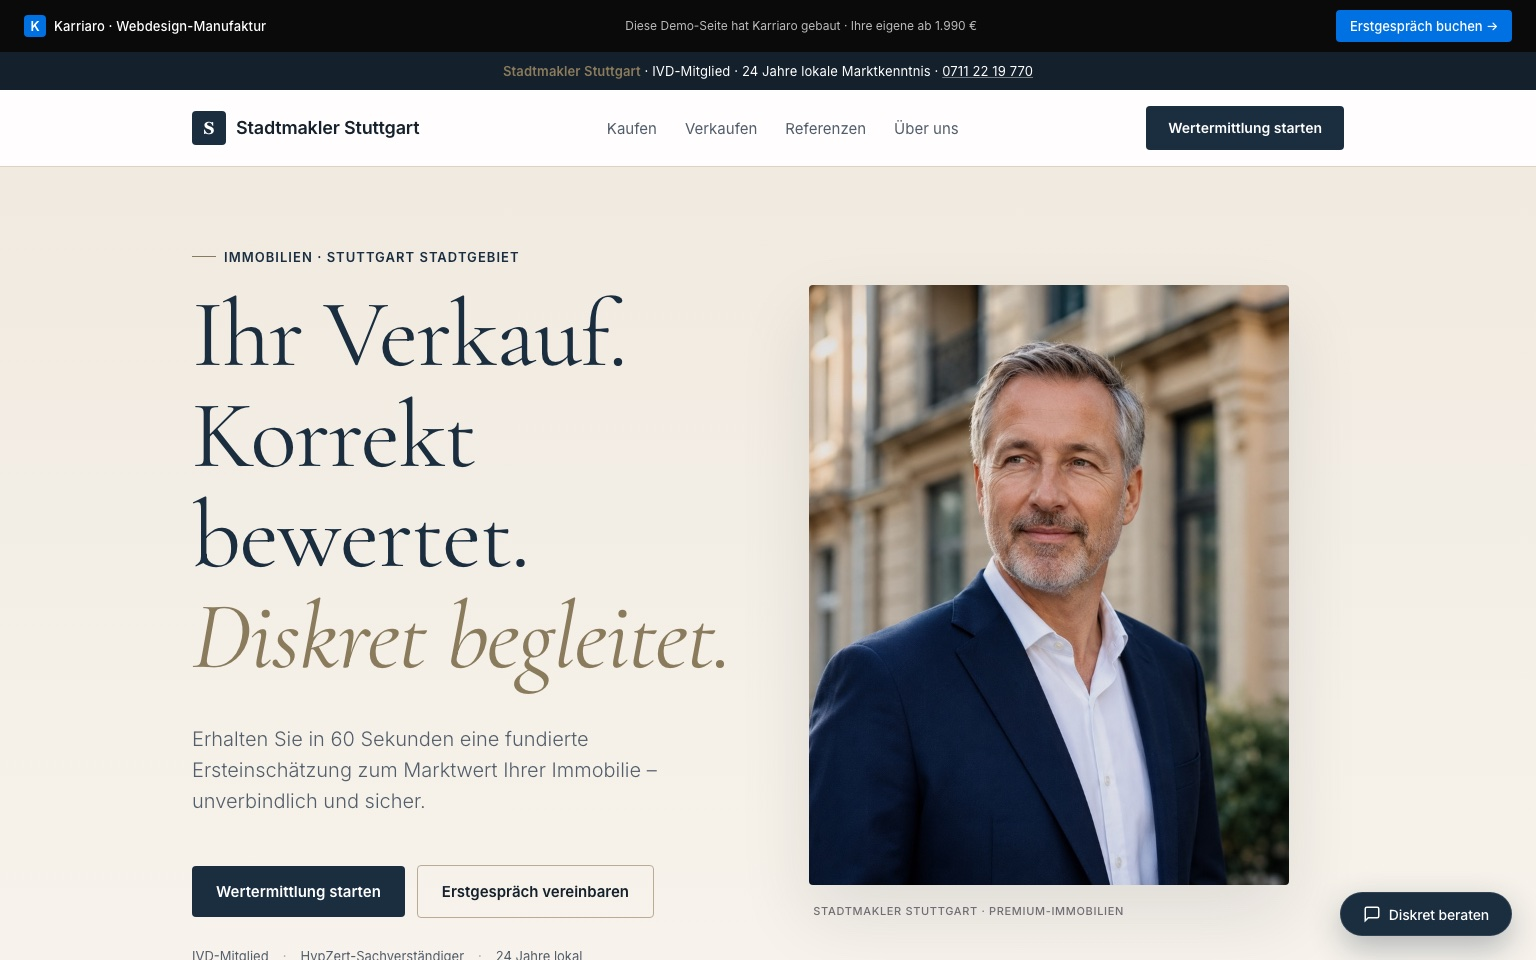
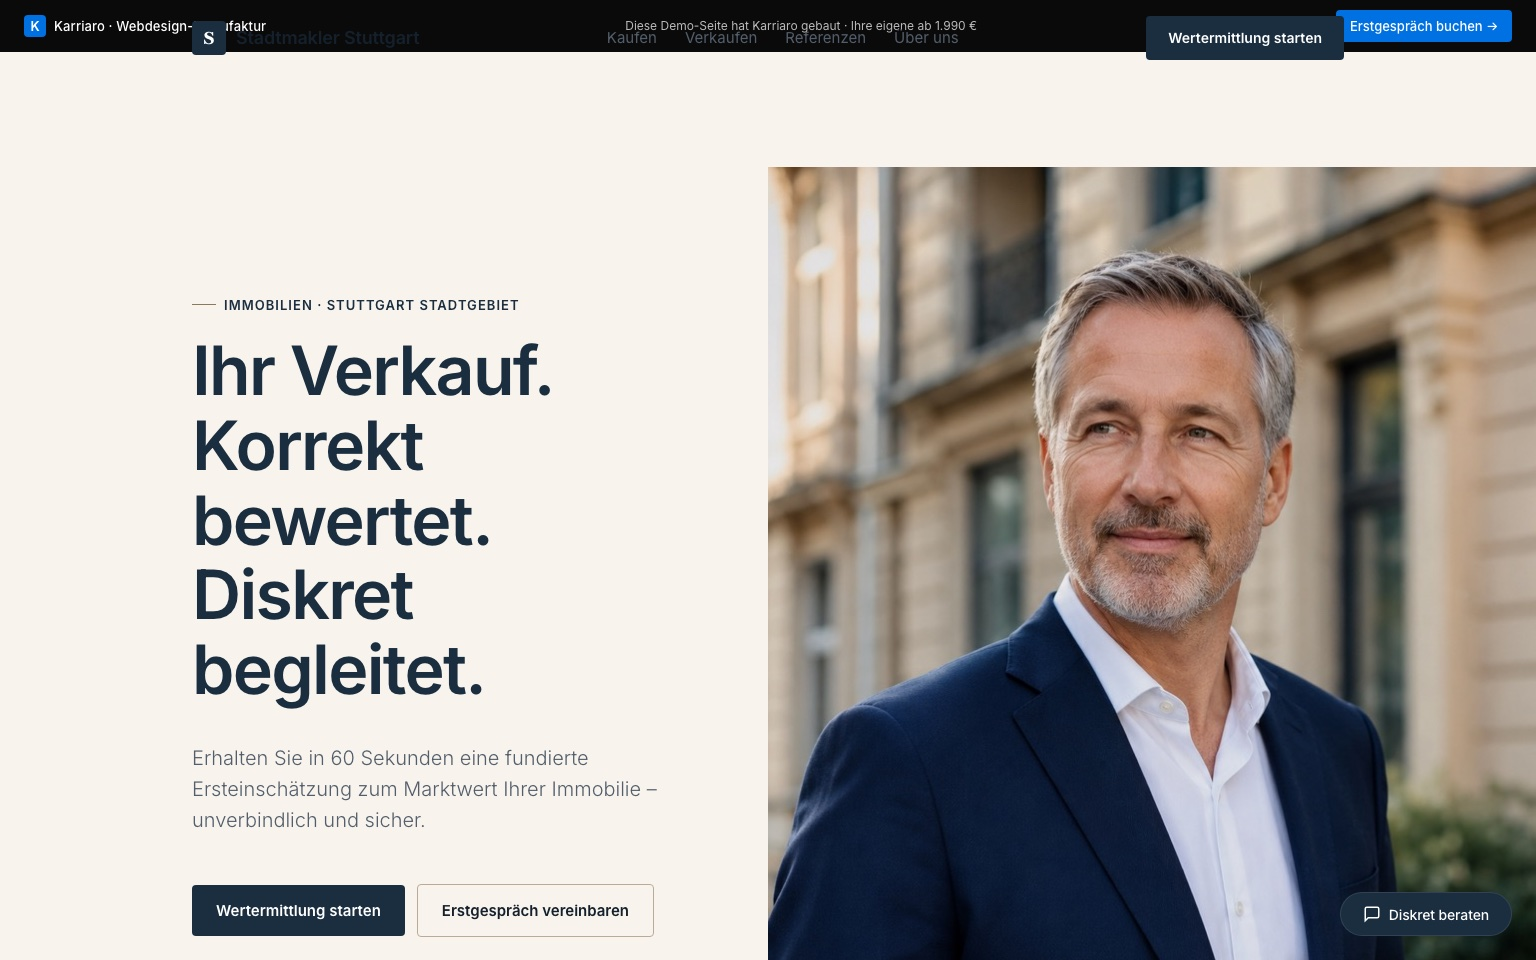
Sprint 24: Immobilien-Hero 1:1 wie User-Screenshot
- Topbar oben (Brand · IVD · 24 Jahre · Tel) entfernt
- Nav-Bar Apple-Style: transparent über Hero, beim Scroll > 20px solid weiss + blur via JS-toggle (.nav.is-scrolled)
- Hero komplett restrukturiert: full-width 2-Spalten-Grid (kein Container), linke Spalte mit asymmetrischem Padding bis Viewport-Mitte, rechte Spalte Foto full-bleed bis Browser-Rand
- H1 `<em>` raus: beide Zeilen "Ihr Verkauf. Korrekt bewertet. / Diskret begleitet." in identischer Sans-Serif Inter Bold 68px (statt Cormorant Serif italic)
- Mobile-Responsive: <920px wird Single-Column, Foto unter Content mit 4:3 Aspect

Nur Immobilien als Pixel-Pure-Showcase; andere 7 Sub-Pages behalten Sprint-22-Pattern.

diff --git a/src/portfolio/immobilien-makler.html b/src/portfolio/immobilien-makler.html
@@ -147,7 +147,8 @@
         .topbar { background: var(--text); color: #fff; font-size: 13px; padding: 9px 24px; text-align: center; letter-spacing: 0.01em; }
         .topbar strong { color: var(--gold); font-weight: 600; }
         .topbar a { color: #fff; text-decoration: underline; text-decoration-color: rgba(255,255,255,0.4); }
-        .nav { position: sticky; top: 0; z-index: 100; background: rgba(255,255,255,0.94); backdrop-filter: blur(14px); -webkit-backdrop-filter: blur(14px); border-bottom: 1px solid var(--border); }
+        .nav { position: fixed; top: 0; left: 0; right: 0; z-index: 100; background: transparent; border-bottom: 1px solid transparent; transition: background 0.3s, backdrop-filter 0.3s, border-color 0.3s; }
+        .nav.is-scrolled { background: rgba(255,255,255,0.92); backdrop-filter: blur(14px); -webkit-backdrop-filter: blur(14px); border-bottom-color: var(--border); }
         .nav-inner { max-width: var(--max); margin: 0 auto; padding: 0 24px; height: 76px; display: flex; align-items: center; justify-content: space-between; gap: 24px; }
         .brand { display: flex; align-items: center; gap: 10px; font-size: 18px; font-weight: 600; letter-spacing: -0.01em; }
         .brand-mark { display: inline-flex; align-items: center; justify-content: center; width: 34px; height: 34px; background: var(--accent); color: #fff; border-radius: 4px; font-weight: 700; font-size: 17px; font-family: 'Georgia', serif; }
@@ -159,11 +160,19 @@
         .mobile-toggle svg { width: 24px; height: 24px; }
         .mobile-menu { display: none; }
 
-        .hero { padding: 72px 0 96px; background: linear-gradient(180deg, var(--accent-bg) 0%, var(--bg) 100%); }
+        .hero { display: grid; grid-template-columns: 1fr 1fr; gap: 0; min-height: clamp(560px, 70vh, 760px); align-items: center; background: var(--bg); }
+        .hero-content { padding-top: 120px; padding-bottom: 80px; padding-left: max(24px, calc((100vw - var(--max)) / 2 + 24px)); padding-right: 56px; }
+        .hero-portrait { align-self: stretch; height: 100%; overflow: hidden; }
+        .hero-portrait img { width: 100%; height: 100%; object-fit: cover; display: block; }
+        @media (max-width: 920px) {
+            .hero { grid-template-columns: 1fr; min-height: auto; }
+            .hero-content { padding: 96px 24px 40px; }
+            .hero-portrait { aspect-ratio: 4/3; }
+        }
         .hero-grid { display: grid; grid-template-columns: 1.05fr 1fr; gap: 56px; align-items: center; }
         .hero-eyebrow { display: inline-flex; align-items: center; gap: 8px; color: var(--accent); font-size: 13px; font-weight: 600; letter-spacing: 0.08em; text-transform: uppercase; margin-bottom: 18px; }
         .hero-eyebrow::before { content: ''; width: 24px; height: 1px; background: var(--gold); }
-        .hero h1 { margin-bottom: 36px; color: var(--accent); }
+        .hero h1 { margin-bottom: 36px; color: var(--accent); font-family: var(--font); font-weight: 700; font-size: clamp(40px, 5.2vw, 68px); letter-spacing: -0.025em; line-height: 1.1; }
         .hero p.lead { font-size: 20px; color: var(--text-soft); max-width: 520px; margin-bottom: 48px; font-weight: 300; line-height: 1.55; }
         .hero-ctas { display: flex; gap: 12px; align-items: center; flex-wrap: wrap; margin-bottom: 28px; }
         .btn { display: inline-flex; align-items: center; gap: 8px; padding: 14px 24px; border-radius: 4px; font-size: 15px; font-weight: 600; transition: all 0.2s; }
@@ -551,8 +560,6 @@
         <a href="https://karriaro-webdesign.de/#kontakt" class="kr-strip-cta">Erstgespräch buchen →</a>
     </div>
 
-    <div class="topbar"><strong>Stadtmakler Stuttgart</strong> · IVD-Mitglied · 24 Jahre lokale Marktkenntnis · <a href="tel:+49711221977">0711 22 19 770</a></div>
-
     <header class="nav">
         <div class="nav-inner">
             <a href="/portfolio/immobilien-makler.html" class="brand"><span class="brand-mark">S</span> Stadtmakler Stuttgart</a>
@@ -574,31 +581,24 @@
 
     <main id="main">
         <section class="hero">
-            <div class="container">
-                <div class="hero-grid">
-                    <div>
-                        <p class="hero-eyebrow">Immobilien · Stuttgart Stadtgebiet</p>
-                        <h1>Ihr Verkauf. Korrekt bewertet.<br><em>Diskret begleitet.</em></h1>
-                        <p class="lead">Erhalten Sie in 60 Sekunden eine fundierte Ersteinschätzung zum Marktwert Ihrer Immobilie – unverbindlich und sicher.</p>
-                        <div class="hero-ctas">
-                            <a href="#bewertung" class="btn btn-primary">Wertermittlung starten</a>
-                            <a href="#kontakt" class="btn btn-ghost">Erstgespräch vereinbaren</a>
-                        </div>
-                        <div class="hero-trust">
-                            <span>IVD-Mitglied</span>
-                            <span class="sep" aria-hidden="true">·</span>
-                            <span>HypZert-Sachverständiger</span>
-                            <span class="sep" aria-hidden="true">·</span>
-                            <span>24 Jahre lokal</span>
-                        </div>
-                    </div>
-                    <div class="hero-mockup">
-                        <img class="hero-portrait-img" src="/images/immobilien/andreas-team.jpg" alt="Andreas Müller, Geschäftsführer Stadtmakler Stuttgart" loading="eager" width="800" height="1000">
-                        <div class="mockup-caption">
-                            <span class="mockup-label">Stadtmakler Stuttgart · Premium-Immobilien</span>
-                        </div>
-                    </div>
+            <div class="hero-content">
+                <p class="hero-eyebrow">Immobilien · Stuttgart Stadtgebiet</p>
+                <h1>Ihr Verkauf. Korrekt bewertet.<br>Diskret begleitet.</h1>
+                <p class="lead">Erhalten Sie in 60 Sekunden eine fundierte Ersteinschätzung zum Marktwert Ihrer Immobilie – unverbindlich und sicher.</p>
+                <div class="hero-ctas">
+                    <a href="#bewertung" class="btn btn-primary">Wertermittlung starten</a>
+                    <a href="#kontakt" class="btn btn-ghost">Erstgespräch vereinbaren</a>
                 </div>
+                <div class="hero-trust">
+                    <span>IVD-Mitglied</span>
+                    <span class="sep" aria-hidden="true">·</span>
+                    <span>HypZert-Sachverständiger</span>
+                    <span class="sep" aria-hidden="true">·</span>
+                    <span>24 Jahre lokal</span>
+                </div>
+            </div>
+            <div class="hero-portrait">
+                <img src="/images/immobilien/andreas-team.jpg" alt="Andreas Müller, Geschäftsführer Stadtmakler Stuttgart" loading="eager" width="800" height="1000">
             </div>
         </section>
 
@@ -1509,6 +1509,12 @@
     </div>
 
     <script>
+        // Nav-Scroll-Detection: transparent über Hero, solid bei Scroll
+        var navEl = document.querySelector('.nav');
+        window.addEventListener('scroll', function () {
+            navEl.classList.toggle('is-scrolled', window.scrollY > 20);
+        }, { passive: true });
+
         document.querySelectorAll('.mobile-menu a').forEach(function (a) {
             a.addEventListener('click', function () { document.getElementById('mobile-menu').classList.remove('is-open'); });
         });
